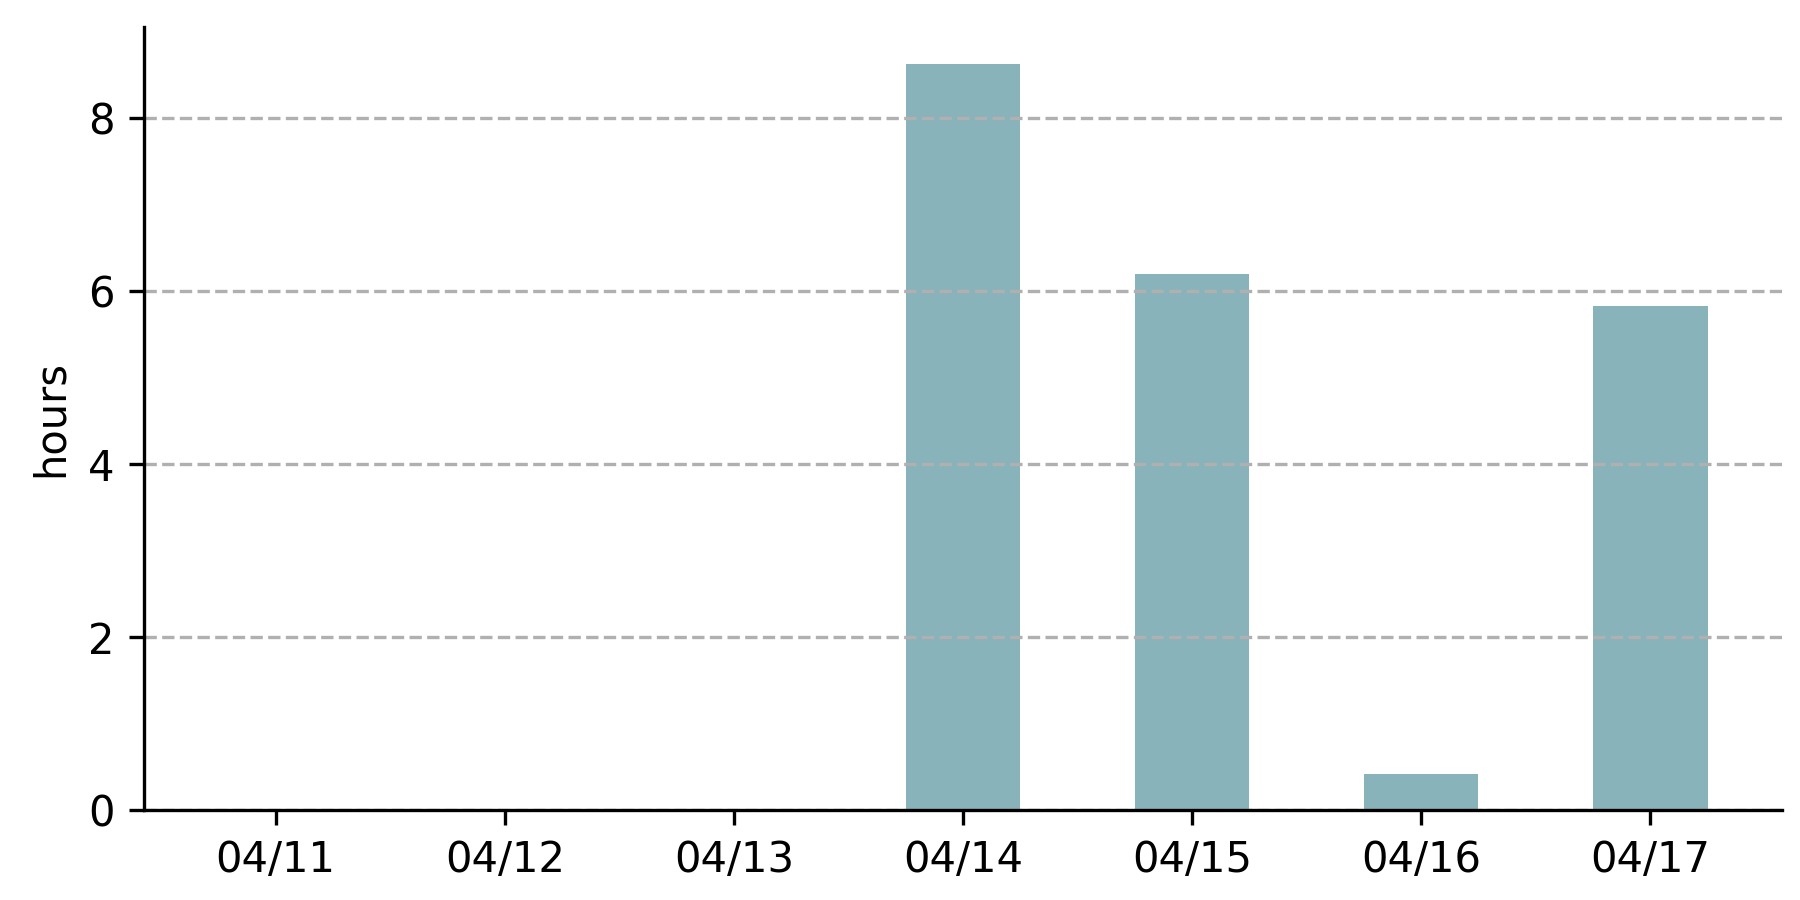
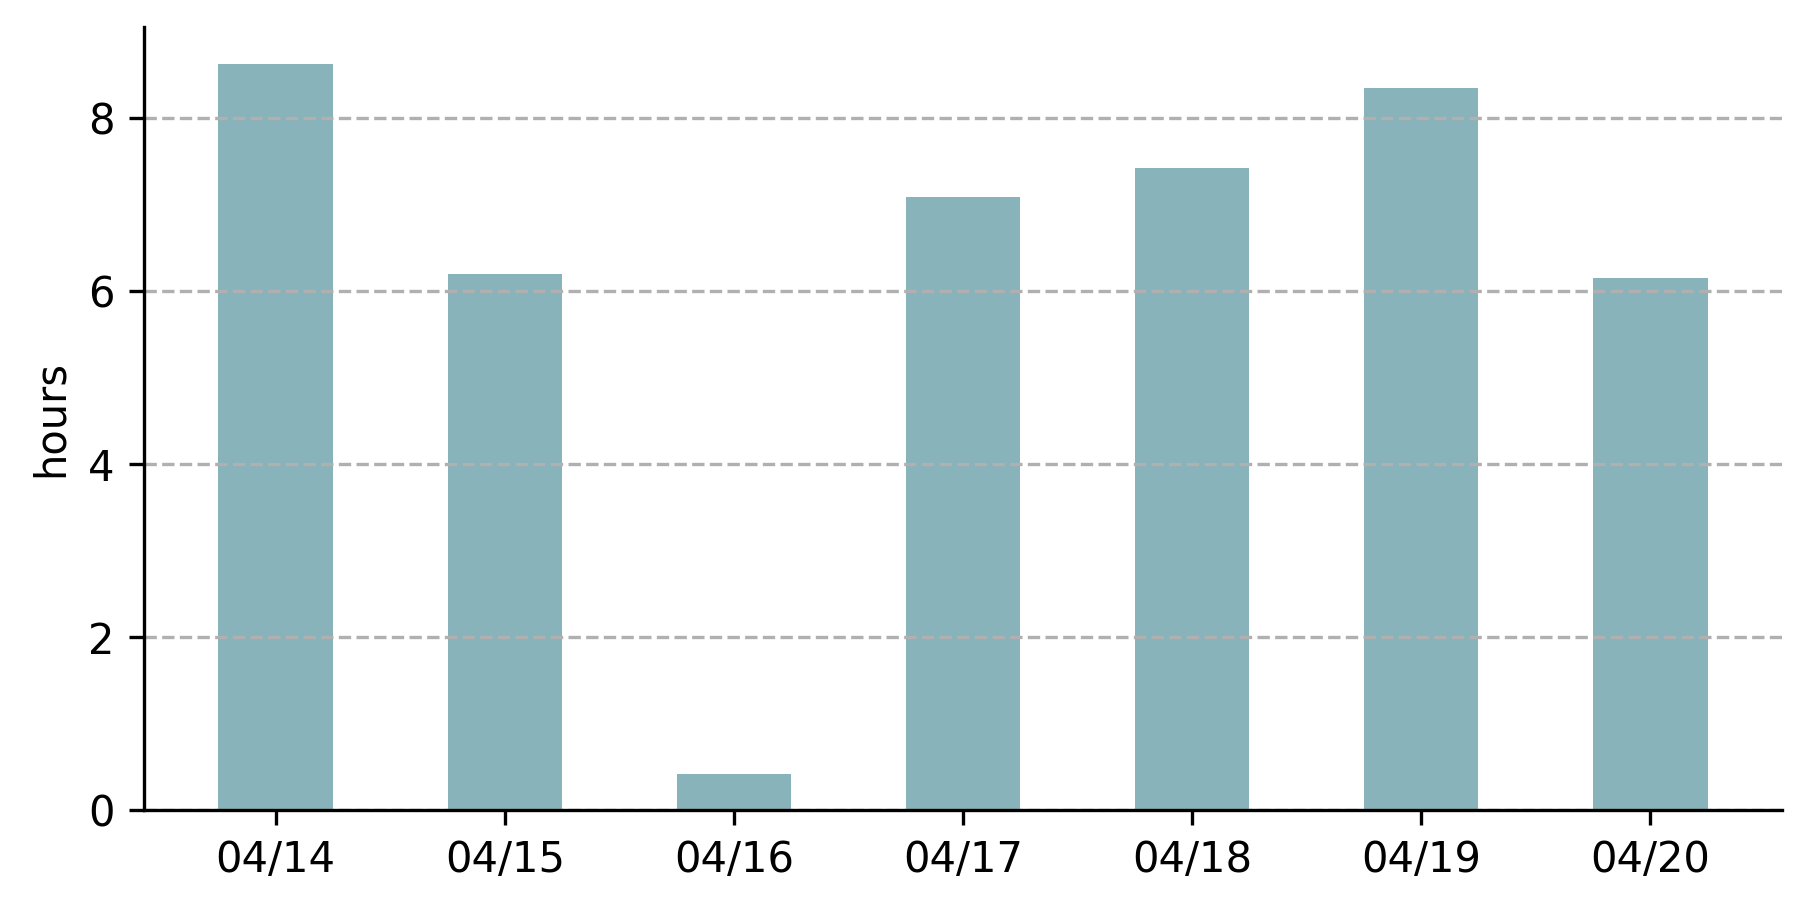
add sample data; update figs

diff --git a/README.md b/README.md
@@ -19,20 +19,22 @@ Use the following command to do the data analysis:
 ```[Python]
 python plot.py --days 1
 ```
-All the figures are stored in the [figs/](figs/) folder.
+All the figures are stored in the [figs/](figs/) folder. I also add a sample data which contains the real data of the first week since this project. Feel free to delete the sample data for your own use.
+
 It has the following features:
 ### Print statistics summary
 ```
-Statistics for previous 3 days
-[TA        ]:    03 hours 42 minutes
-[code      ]:    02 hours 05 minutes
-[meeting   ]:    00 hours 31 minutes
-[misc      ]:    01 hours 02 minutes
-[presentation]:  02 hours 09 minutes
-[reading   ]:    01 hours 58 minutes
-[writing   ]:    00 hours 56 minutes
-[Total time]:    12 hours 27 minutes
-[Time per day]:  04 hours 09 minutes
+Statistics for previous 7 days
+[TA        ]:      4 hours 29 minutes
+[code      ]:     18 hours 01 minutes
+[meeting   ]:      5 hours 50 minutes
+[misc      ]:      1 hours 02 minutes
+[presentation]:    2 hours 09 minutes
+[reading   ]:      6 hours 31 minutes
+[thinking  ]:      4 hours 15 minutes
+[writing   ]:      1 hours 54 minutes
+[Total time]:     44 hours 15 minutes
+[Time per day]:    6 hours 19 minutes
 ```
 ### Plot pie chart
 
